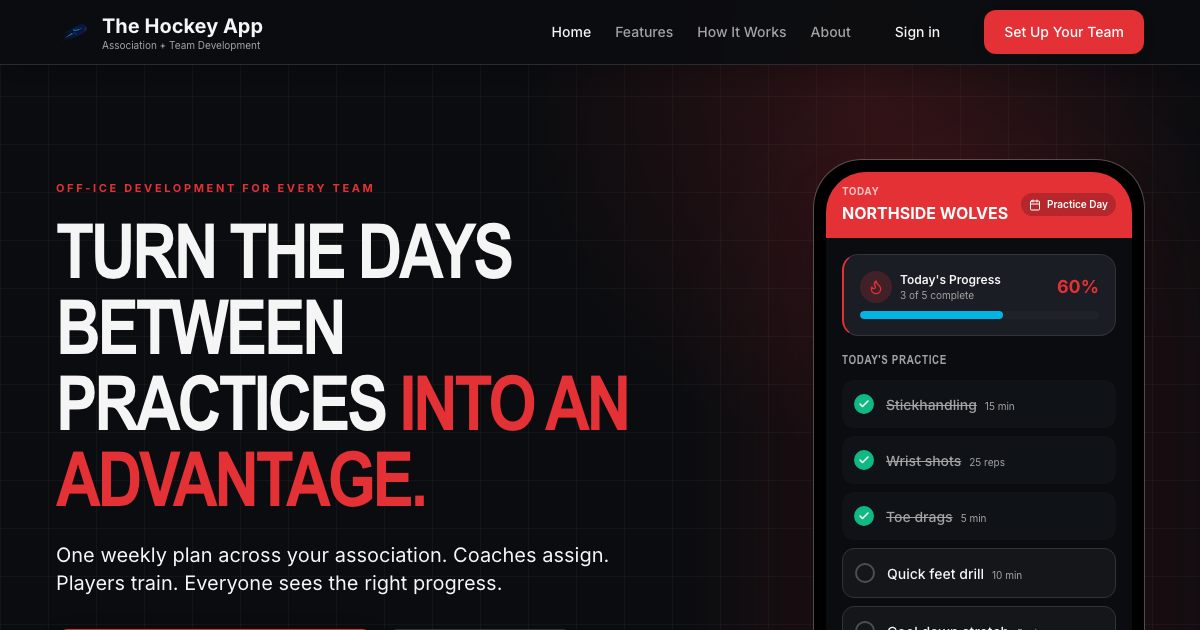
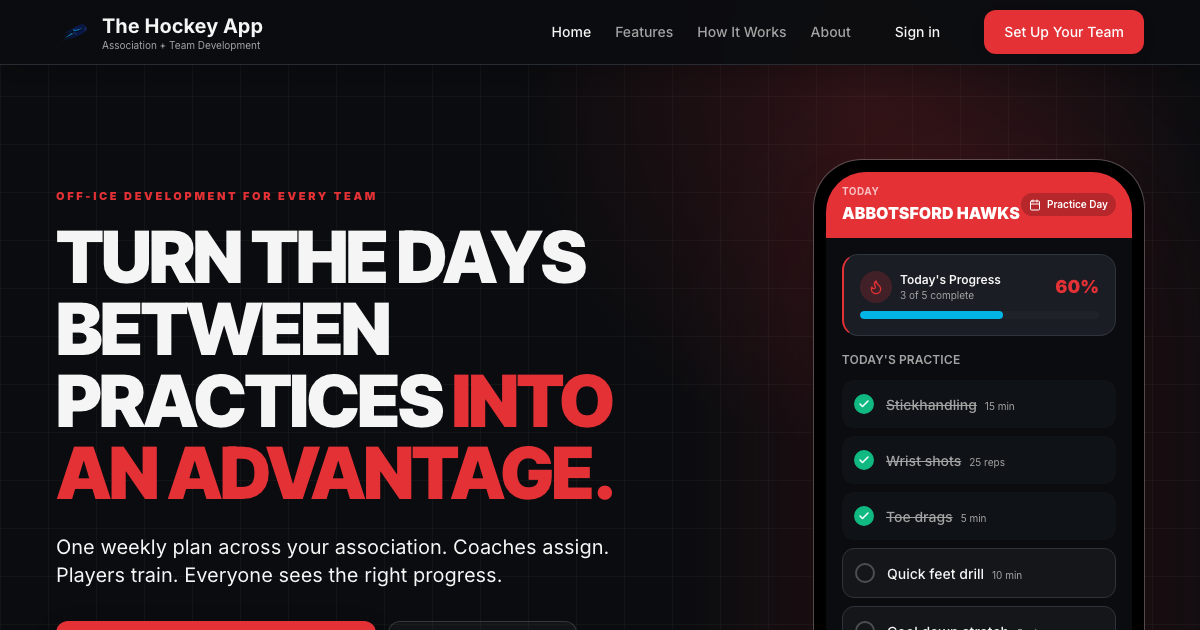
Improve display type readability

diff --git a/src/pages/marketing/Home.tsx b/src/pages/marketing/Home.tsx
@@ -113,7 +113,7 @@ function AssociationPreview() {
       <div className="flex items-center justify-between border-b border-white/10 px-5 py-4">
         <div>
           <p className="text-[9px] font-black uppercase tracking-[0.2em] text-primary">Sample workspace</p>
-          <p className="mt-1 font-display text-lg font-black uppercase text-white">North Shore Hockey</p>
+          <p className="mt-1 font-display text-lg font-black uppercase text-white">Abbotsford Hawks</p>
         </div>
         <span className="rounded-md bg-emerald-400/10 px-2 py-1 text-[9px] font-black uppercase text-emerald-300">
           Season live
@@ -263,7 +263,7 @@ export default function Home() {
           <div className="relative mx-auto grid max-w-6xl items-center gap-10 px-4 pb-16 pt-14 sm:px-6 sm:pb-20 sm:pt-20 lg:grid-cols-[1.12fr_0.88fr] lg:gap-16 lg:px-8 lg:pb-28 lg:pt-24">
             <div>
               <SectionEyebrow>Off-ice development for every team</SectionEyebrow>
-              <h1 className="max-w-3xl font-display text-5xl font-black uppercase leading-[0.9] tracking-[-0.045em] sm:text-6xl lg:text-[76px]">
+              <h1 className="max-w-3xl font-display text-5xl font-black uppercase leading-[0.94] tracking-[-0.035em] sm:text-6xl lg:text-[72px]">
                 Turn the days between practices <span className="text-primary">into an advantage.</span>
               </h1>
               <p className="mt-6 max-w-xl text-lg leading-7 text-white/68 sm:text-xl">

diff --git a/index.html b/index.html
@@ -18,7 +18,7 @@
     <link rel="preconnect" href="https://fonts.googleapis.com" />
     <link rel="preconnect" href="https://fonts.gstatic.com" crossorigin />
     <!-- Condensed performance display type + highly readable interface type -->
-    <link href="https://fonts.googleapis.com/css2?family=Barlow+Condensed:wght@600;700;800;900&family=Inter:wght@400;500;600;700;800;900&display=swap" rel="stylesheet" />
+    <link href="https://fonts.googleapis.com/css2?family=Inter+Tight:wght@600;700;800;900&family=Inter:wght@400;500;600;700;800;900&display=swap" rel="stylesheet" />
 
     <meta property="og:type" content="website" />
     <meta property="og:url" content="https://www.hockeyapp.ca/" />

diff --git a/tailwind.config.ts b/tailwind.config.ts
@@ -19,7 +19,7 @@ export default {
     },
     extend: {
       fontFamily: {
-        display: ['"Barlow Condensed"', '"Arial Narrow"', '"Inter Tight"', "Inter", "sans-serif"],
+        display: ['"Inter Tight"', "Inter", "ui-sans-serif", "system-ui", "sans-serif"],
         sans: ["Inter", "ui-sans-serif", "system-ui", "sans-serif"],
       },
       colors: {

diff --git a/src/index.css b/src/index.css
@@ -191,8 +191,7 @@
   /* Typography defaults */
   h1, h2, h3, h4, h5, h6 {
     @apply font-semibold tracking-tight text-foreground;
-    font-family: "Barlow Condensed", "Arial Narrow", "Inter Tight", Inter, sans-serif;
-    font-stretch: condensed;
+    font-family: "Inter Tight", Inter, ui-sans-serif, system-ui, sans-serif;
   }
 
   ::selection {
